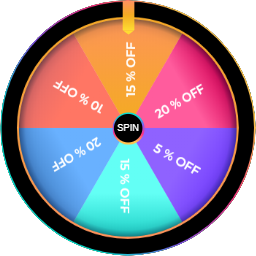
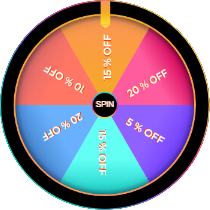
font shadow

diff --git a/dist/bundle.js b/dist/bundle.js
@@ -170,7 +170,7 @@ eval("__webpack_require__.r(__webpack_exports__);\n/* harmony export */ __webpac
 /***/ ((module, __webpack_exports__, __webpack_require__) => {
 
 "use strict";
-eval("__webpack_require__.r(__webpack_exports__);\n/* harmony export */ __webpack_require__.d(__webpack_exports__, {\n/* harmony export */   \"default\": () => (__WEBPACK_DEFAULT_EXPORT__)\n/* harmony export */ });\n/* harmony import */ var _node_modules_css_loader_dist_runtime_noSourceMaps_js__WEBPACK_IMPORTED_MODULE_0__ = __webpack_require__(/*! ../../../node_modules/css-loader/dist/runtime/noSourceMaps.js */ \"./node_modules/css-loader/dist/runtime/noSourceMaps.js\");\n/* harmony import */ var _node_modules_css_loader_dist_runtime_noSourceMaps_js__WEBPACK_IMPORTED_MODULE_0___default = /*#__PURE__*/__webpack_require__.n(_node_modules_css_loader_dist_runtime_noSourceMaps_js__WEBPACK_IMPORTED_MODULE_0__);\n/* harmony import */ var _node_modules_css_loader_dist_runtime_api_js__WEBPACK_IMPORTED_MODULE_1__ = __webpack_require__(/*! ../../../node_modules/css-loader/dist/runtime/api.js */ \"./node_modules/css-loader/dist/runtime/api.js\");\n/* harmony import */ var _node_modules_css_loader_dist_runtime_api_js__WEBPACK_IMPORTED_MODULE_1___default = /*#__PURE__*/__webpack_require__.n(_node_modules_css_loader_dist_runtime_api_js__WEBPACK_IMPORTED_MODULE_1__);\n// Imports\n\n\nvar ___CSS_LOADER_EXPORT___ = _node_modules_css_loader_dist_runtime_api_js__WEBPACK_IMPORTED_MODULE_1___default()((_node_modules_css_loader_dist_runtime_noSourceMaps_js__WEBPACK_IMPORTED_MODULE_0___default()));\n// Module\n___CSS_LOADER_EXPORT___.push([module.id, \"/* #wheelOfFortune {\\r\\n    display: inline-flex;\\r\\n    position: fixed;\\r\\n    overflow: initial;\\r\\n    z-index: 9999999999;\\r\\n} */\\r\\n.wheelOfFortune {\\r\\n    display: inline-flex;\\r\\n    position: fixed;\\r\\n    overflow: initial;\\r\\n    z-index: 9999999999;\\r\\n}\\r\\n\\r\\n.picture {\\r\\n    position: absolute;\\r\\n    width: 350px; \\r\\n    height: 350px;\\r\\n }\\r\\n\\r\\n.wheel {\\r\\n    display: block;\\r\\n}\\r\\n\\r\\n\\r\\n/* #spin {\\r\\n    font: 0.9rem/0 sans-serif;\\r\\n    cursor: pointer;\\r\\n    display: flex;\\r\\n    justify-content: center;\\r\\n    align-items: center;\\r\\n    width: 56px;\\r\\n    height: 56px;\\r\\n    background: black;\\r\\n    border-radius: 50%;\\r\\n    position: absolute;\\r\\n    top: 2px;\\r\\n    left: 2px;\\r\\n    z-index: 1;\\r\\n} */\\r\\n.spin {\\r\\n    font: 0.8rem/0 sans-serif;\\r\\n    cursor: pointer;\\r\\n    display: flex;\\r\\n    justify-content: center;\\r\\n    align-items: center;\\r\\n    width: 39px;\\r\\n    height: 39px;\\r\\n    background: black;\\r\\n    border-radius: 50%;\\r\\n    position: absolute;\\r\\n    top: 2px;\\r\\n    left: 2px;\\r\\n    z-index: 1;\\r\\n}\\r\\n\\r\\n.spin-border-wrap {\\r\\n    position: absolute;\\r\\n    top: 154px;\\r\\n    left: 154px;\\r\\n    width: 44px;\\r\\n    height: 44px;\\r\\n    background: linear-gradient(0deg, #FFC24F 8.58%, #FF3183 32.32%, #8559F3 60.82%, #657BEA 66.73%, #34B0DC 77.01%, #15D1D3 84.73%, #09DDD0 88.95%);\\r\\n    border-radius: 50%;\\r\\n    z-index: 1;\\r\\n}\\r\\n\\r\\n.topmark-box {\\r\\n    position: absolute;\\r\\n    left: 48%;\\r\\n    top: 1px;\\r\\n    width: 16px;\\r\\n    height: 40px;\\r\\n    background: linear-gradient(180deg, #FF9161 0%, #F4AB22 48.44%, #FEDC32 100%);\\r\\n    z-index: 1;\\r\\n\\r\\n}\\r\\n\\r\\n.topmark-arrow {\\r\\n    position: absolute;\\r\\n    left: 48%;\\r\\n    top: 41px;\\r\\n    width: 16px;\\r\\n    height: 20px;\\r\\n    background: linear-gradient(180deg, #FEDC32 0%, #FEDC32 48.44%, #FEDC32 100%);\\r\\n    z-index: 1;\\r\\n    clip-path: polygon(100% 0%, 50% 30%, 0% 0%);\\r\\n\\r\\n}\\r\\n\\r\\n.round-close-icon {\\r\\n    width: 40px;\\r\\n    height: 40px;\\r\\n    padding: 6px;\\r\\n    margin-left: 10px;\\r\\n}\\r\\n\\r\\n@media screen and (min-width:560px) {\\r\\n    .picture {\\r\\n        width: 450px; \\r\\n        height: 450px;\\r\\n     }\\r\\n    .spin-border-wrap {\\r\\n        top: 198px;\\r\\n        left: 198px;\\r\\n        width:58px;\\r\\n        height: 58px;\\r\\n    }\\r\\n    .spin {\\r\\n        font: 0.9rem/0 sans-serif;\\r\\n        width: 50px;\\r\\n        height: 50px;\\r\\n        top: 3px;\\r\\n        left: 3px;\\r\\n    }\\r\\n    .topmark-box {\\r\\n        width: 22px;\\r\\n        height: 47px;\\r\\n    }\\r\\n    .topmark-arrow {\\r\\n        top: 47px;\\r\\n        width: 22px;\\r\\n        height: 30px;\\r\\n        }\\r\\n\\r\\n\\r\\n  }\", \"\"]);\n// Exports\n/* harmony default export */ const __WEBPACK_DEFAULT_EXPORT__ = (___CSS_LOADER_EXPORT___);\n\n\n//# sourceURL=webpack:///./src/widgets/wheelOfFortuneWidget/styles.css?./node_modules/css-loader/dist/cjs.js");
+eval("__webpack_require__.r(__webpack_exports__);\n/* harmony export */ __webpack_require__.d(__webpack_exports__, {\n/* harmony export */   \"default\": () => (__WEBPACK_DEFAULT_EXPORT__)\n/* harmony export */ });\n/* harmony import */ var _node_modules_css_loader_dist_runtime_noSourceMaps_js__WEBPACK_IMPORTED_MODULE_0__ = __webpack_require__(/*! ../../../node_modules/css-loader/dist/runtime/noSourceMaps.js */ \"./node_modules/css-loader/dist/runtime/noSourceMaps.js\");\n/* harmony import */ var _node_modules_css_loader_dist_runtime_noSourceMaps_js__WEBPACK_IMPORTED_MODULE_0___default = /*#__PURE__*/__webpack_require__.n(_node_modules_css_loader_dist_runtime_noSourceMaps_js__WEBPACK_IMPORTED_MODULE_0__);\n/* harmony import */ var _node_modules_css_loader_dist_runtime_api_js__WEBPACK_IMPORTED_MODULE_1__ = __webpack_require__(/*! ../../../node_modules/css-loader/dist/runtime/api.js */ \"./node_modules/css-loader/dist/runtime/api.js\");\n/* harmony import */ var _node_modules_css_loader_dist_runtime_api_js__WEBPACK_IMPORTED_MODULE_1___default = /*#__PURE__*/__webpack_require__.n(_node_modules_css_loader_dist_runtime_api_js__WEBPACK_IMPORTED_MODULE_1__);\n// Imports\n\n\nvar ___CSS_LOADER_EXPORT___ = _node_modules_css_loader_dist_runtime_api_js__WEBPACK_IMPORTED_MODULE_1___default()((_node_modules_css_loader_dist_runtime_noSourceMaps_js__WEBPACK_IMPORTED_MODULE_0___default()));\n// Module\n___CSS_LOADER_EXPORT___.push([module.id, \"/* #wheelOfFortune {\\r\\n    display: inline-flex;\\r\\n    position: fixed;\\r\\n    overflow: initial;\\r\\n    z-index: 9999999999;\\r\\n} */\\r\\n.wheelOfFortune {\\r\\n    display: inline-flex;\\r\\n    position: fixed;\\r\\n    overflow: initial;\\r\\n    z-index: 9999999999;\\r\\n}\\r\\n\\r\\n.picture {\\r\\n    position: absolute;\\r\\n    width: 350px; \\r\\n    height: 350px;\\r\\n }\\r\\n\\r\\n.wheel {\\r\\n    display: block;\\r\\n}\\r\\n\\r\\n\\r\\n/* #spin {\\r\\n    font: 0.9rem/0 sans-serif;\\r\\n    cursor: pointer;\\r\\n    display: flex;\\r\\n    justify-content: center;\\r\\n    align-items: center;\\r\\n    width: 56px;\\r\\n    height: 56px;\\r\\n    background: black;\\r\\n    border-radius: 50%;\\r\\n    position: absolute;\\r\\n    top: 2px;\\r\\n    left: 2px;\\r\\n    z-index: 1;\\r\\n} */\\r\\n.spin {\\r\\n    font: 0.8rem/0 sans-serif;\\r\\n    cursor: pointer;\\r\\n    display: flex;\\r\\n    justify-content: center;\\r\\n    align-items: center;\\r\\n    width: 40px;\\r\\n    height: 40px;\\r\\n    background: black;\\r\\n    border-radius: 50%;\\r\\n    position: absolute;\\r\\n    top: 2px;\\r\\n    left: 2px;\\r\\n    z-index: 1;\\r\\n    text-shadow: -2px 0px 0px #FE4100;\\r\\n}\\r\\n\\r\\n.spin-border-wrap {\\r\\n    position: absolute;\\r\\n    top: 153px;\\r\\n    left: 153px;\\r\\n    width: 44px;\\r\\n    height: 44px;\\r\\n    background: linear-gradient(0deg, #FFC24F 8.58%, #FF3183 32.32%, #8559F3 60.82%, #657BEA 66.73%, #34B0DC 77.01%, #15D1D3 84.73%, #09DDD0 88.95%);\\r\\n    border-radius: 50%;\\r\\n    z-index: 1;\\r\\n}\\r\\n\\r\\n.topmark-box {\\r\\n    position: absolute;\\r\\n    left: 48%;\\r\\n    top: 1px;\\r\\n    width: 16px;\\r\\n    height: 40px;\\r\\n    background: linear-gradient(180deg, #FF9161 0%, #F4AB22 48.44%, #FEDC32 100%);\\r\\n    z-index: 1;\\r\\n\\r\\n}\\r\\n\\r\\n.topmark-arrow {\\r\\n    position: absolute;\\r\\n    left: 48%;\\r\\n    top: 41px;\\r\\n    width: 16px;\\r\\n    height: 20px;\\r\\n    background: linear-gradient(180deg, #FEDC32 0%, #FEDC32 48.44%, #FEDC32 100%);\\r\\n    z-index: 1;\\r\\n    clip-path: polygon(100% 0%, 50% 30%, 0% 0%);\\r\\n\\r\\n}\\r\\n\\r\\n.round-close-icon {\\r\\n    width: 40px;\\r\\n    height: 40px;\\r\\n    padding: 6px;\\r\\n    margin-left: 10px;\\r\\n}\\r\\n\\r\\n@media screen and (min-width:560px) {\\r\\n    .picture {\\r\\n        width: 450px; \\r\\n        height: 450px;\\r\\n     }\\r\\n    .spin-border-wrap {\\r\\n        top: 198px;\\r\\n        left: 198px;\\r\\n        width:58px;\\r\\n        height: 58px;\\r\\n    }\\r\\n    .spin {\\r\\n        font: 0.9rem/0 sans-serif;\\r\\n        width: 50px;\\r\\n        height: 50px;\\r\\n        top: 3px;\\r\\n        left: 3px;\\r\\n    }\\r\\n    .topmark-box {\\r\\n        width: 22px;\\r\\n        height: 47px;\\r\\n    }\\r\\n    .topmark-arrow {\\r\\n        top: 47px;\\r\\n        width: 22px;\\r\\n        height: 30px;\\r\\n        }\\r\\n\\r\\n\\r\\n  }\", \"\"]);\n// Exports\n/* harmony default export */ const __WEBPACK_DEFAULT_EXPORT__ = (___CSS_LOADER_EXPORT___);\n\n\n//# sourceURL=webpack:///./src/widgets/wheelOfFortuneWidget/styles.css?./node_modules/css-loader/dist/cjs.js");
 
 /***/ }),
 
@@ -1070,7 +1070,7 @@ eval("__webpack_require__.r(__webpack_exports__);\n/* harmony export */ __webpac
 /***/ ((__unused_webpack_module, __webpack_exports__, __webpack_require__) => {
 
 "use strict";
-eval("__webpack_require__.r(__webpack_exports__);\n/* harmony export */ __webpack_require__.d(__webpack_exports__, {\n/* harmony export */   \"default\": () => (__WEBPACK_DEFAULT_EXPORT__)\n/* harmony export */ });\n/* harmony import */ var _services__WEBPACK_IMPORTED_MODULE_0__ = __webpack_require__(/*! @/services */ \"./src/services/index.js\");\n/* harmony import */ var _utlis__WEBPACK_IMPORTED_MODULE_1__ = __webpack_require__(/*! @/utlis */ \"./src/utlis/index.js\");\n/* harmony import */ var _constants__WEBPACK_IMPORTED_MODULE_2__ = __webpack_require__(/*! ./constants */ \"./src/widgets/wheelOfFortuneWidget/constants.js\");\n/* harmony import */ var _styles_css__WEBPACK_IMPORTED_MODULE_3__ = __webpack_require__(/*! ./styles.css */ \"./src/widgets/wheelOfFortuneWidget/styles.css\");\n\r\n\r\n\r\n\r\n\r\n\r\n\r\n\r\n\r\n\r\n\r\n\r\nclass WheelOfFortuneWidget {\r\n  constructor() {\r\n    this.config = _services__WEBPACK_IMPORTED_MODULE_0__.localStorageService.getDefaultConfig();\r\n    if (!this.config.success && !localStorage.getItem('testing_Widgets')) return;\r\n    this.x = window.matchMedia(\"(min-width: 560px)\").matches ? 300 : window.matchMedia(\"(min-width: 390px)\").matches ? 1 : -20\r\n    this.y = 200\r\n    this.size = window.matchMedia(\"(min-width: 560px)\").matches ? 450 : 350\r\n    this.createWheel();\r\n    this.elSpin = document.querySelector('#spin');\r\n    this.ctx = document.getElementById('wheel').getContext`2d`;\r\n    // this.config.list = this?.config?.list ?? defaultList;\r\n    this.setValues()\r\n    this.tot = this.config?.list?.length ?? 0;\r\n    this.dia = this.ctx.canvas.width;\r\n    this.rad = this.dia / 2;\r\n    this.PI = Math.PI;\r\n    this.TAU = 2 * this.PI;\r\n    this.arc = this.TAU / (this.config?.list?.length ?? 0);\r\n    this.friction = 0.991;\r\n    this.angVelMin = 0.002;\r\n    this.angVelMax = 0;\r\n    this.angVel = 0;\r\n    this.ang = 0;\r\n    this.isSpinning = false;\r\n    this.isAccelerating = false;\r\n    this.drawBackground();\r\n    this.elSpin.addEventListener('click', () => {\r\n      _services__WEBPACK_IMPORTED_MODULE_0__.boomioService.signal('SPIN');\r\n      if (this.isSpinning) return;\r\n      this.isSpinning = true;\r\n      this.isAccelerating = true;\r\n      // this.angVelMax = getRandomArbitrary(0.1, 0.2);\r\n      this.angVelMax = 0.15;\r\n    });\r\n\r\n    this.config?.list?.forEach(this.drawSector);\r\n    this.config?.list?.forEach(this.addText);\r\n    this.wheelOfFortune = document.getElementById('wheelOfFortune');\r\n    this.addCloseIconToElement(this.wheelOfFortune);\r\n    new _services__WEBPACK_IMPORTED_MODULE_0__.DragElement(this.wheelOfFortune);\r\n    this.rotate(); // Initial rotation\r\n    this.engine(); // Start engine!\r\n    this.startAnimation();\r\n  }\r\n  engine = () => {\r\n    this.frame();\r\n    requestAnimationFrame(this.engine);\r\n  };\r\n  /**\r\n   * Sets value to a winning segment of wheel. Uses \"p_top_text\" field from handle for that.  Sets other values randomised around or from constants.js\r\n   */\r\n  setValues = () => {\r\n    // this.config.p_top_text = '370€'\r\n    this.config.list = _constants__WEBPACK_IMPORTED_MODULE_2__.defaultList;\r\n    const winningValue = this.config.p_top_text?.replace(/\\D/g, \"\")\r\n    if (this.config.p_top_text?.includes('$') || this.config.p_top_text?.includes('€')) {\r\n      this.config.list.forEach((e) => {\r\n        const rounding = winningValue.length > 1 ? winningValue.length - 1 : 1\r\n        const value = winningValue * 1 + Math.round(winningValue * (0,_utlis__WEBPACK_IMPORTED_MODULE_1__.getRandomArbitrary)(-1, 1) / Math.pow(10, rounding - 1)) * Math.pow(10, rounding - 1);\r\n        e.label = `${value}${this.config.p_top_text.includes('$') ? ' $' : ' €'}`\r\n      })\r\n      this.config.list[5].label = `${winningValue} ${this.config.p_top_text.includes('$') ? ' $' : ' €'}`\r\n    }\r\n    if (this.config.p_top_text?.includes('%')) {\r\n      this.config.list[5].label = `${winningValue} % OFF`\r\n    }\r\n    if (this.config.p_top_text?.toLowerCase().includes('free shipping')) {\r\n      this.config.list[5].label = 'Free Shippping'\r\n    }\r\n  }\r\n\r\n  frame = () => {\r\n    if (!this.isSpinning) return;\r\n    if (this.angVel >= this.angVelMax) this.isAccelerating = false;\r\n\r\n    // Accelerate\r\n    if (this.isAccelerating) {\r\n      this.angVel ||= this.angVelMin; // Initial velocity kick\r\n      this.angVel *= 1.06; // Accelerate\r\n    }\r\n\r\n    // Decelerate\r\n    else {\r\n      this.isAccelerating = false;\r\n      this.angVel *= this.friction; // Decelerate by friction\r\n\r\n      // SPIN END:\r\n      if (this.angVel < this.angVelMin) {\r\n        this.isSpinning = false;\r\n        this.angVel = 0;\r\n        new _services__WEBPACK_IMPORTED_MODULE_0__.QrCodeModal();\r\n        setTimeout(() => {\r\n          this.wheelOfFortune.remove();\r\n        }, 5000);\r\n      }\r\n    }\r\n    this.ang += this.angVel; // Update angle\r\n    this.ang %= this.TAU; // Normalize angle\r\n    this.rotate(); // CSS rotate!\r\n  };\r\n\r\n  getIndex = () => Math.floor(this.tot - (this.ang / this.TAU) * this.tot) % this.tot;\r\n\r\n  rotate = () => {\r\n    const sector = this.config?.list?.[this.getIndex()];\r\n    this.ctx.canvas.style.transform = `rotate(${this.ang - this.PI / 2}rad)`;\r\n    this.elSpin.innerHTML = !this.angVel\r\n      ? 'SPIN'\r\n      : `      \r\n            <img style=\"width: 40px; height: 40px\" src=\"https://github.com/boomio-api-v2/final-combined-wdigets-1/blob/wheelof-fortune/images/wheelOfFortuneWidget/fav-boomiyo.png?raw=true\"></img>\r\n        `;\r\n    // this.elSpin.style.background = sector.color;\r\n\r\n    this.elSpin.style.color = 'white'\r\n  };\r\n\r\n  drawBackground = () => {\r\n    // return\r\n    this.ctx.beginPath() // outer circle \r\n    let angle = _constants__WEBPACK_IMPORTED_MODULE_2__.outerBorderAngle + 3 * this.PI / 2\r\n    let gx = this.rad * Math.cos(angle);\r\n    let gy = this.rad * Math.sin(angle);\r\n    let cx = this.rad\r\n    let cy = this.rad\r\n    let grd = this.ctx.createLinearGradient(cx - gx, cy - gy, cx + gx, cy + gy);\r\n    _constants__WEBPACK_IMPORTED_MODULE_2__.outerBorderGradient.forEach((st) => grd.addColorStop(st.pct, st.clr))\r\n    this.ctx.fillStyle = grd\r\n    this.ctx.arc(this.rad, this.rad, this.rad, 0, 2 * this.PI)\r\n    this.ctx.moveTo(this.rad, this.rad)\r\n    this.ctx.lineTo(this.rad, this.rad)\r\n    this.ctx.fill()\r\n\r\n    this.ctx.beginPath() // black circle\r\n    this.ctx.fillStyle = 'black'\r\n    if (this.size === 350) {\r\n      this.ctx.arc(this.rad, this.rad, this.rad - 2, 0, 2 * this.PI)\r\n    } else {\r\n      this.ctx.arc(this.rad, this.rad, this.rad - 3, 0, 2 * this.PI)\r\n    }\r\n    this.ctx.moveTo(this.rad, this.rad)\r\n    this.ctx.lineTo(this.rad, this.rad)\r\n    this.ctx.fill()\r\n\r\n    this.ctx.beginPath() // inner circle \r\n    angle = 0\r\n    gx = this.rad * Math.cos(angle);\r\n    gy = this.rad * Math.sin(angle);\r\n    cx = this.rad\r\n    cy = this.rad\r\n    grd = this.ctx.createLinearGradient(cx - gx, cy - gy, cx + gx, cy + gy);\r\n    _constants__WEBPACK_IMPORTED_MODULE_2__.innerBorderGradient.forEach((st) => grd.addColorStop(st.pct, st.clr))\r\n    this.ctx.fillStyle = grd\r\n    // this.ctx.arc(this.rad, this.rad, this.rad - 18, 0, 2 * this.PI)\r\n    if (this.size === 350) {\r\n      this.ctx.arc(this.rad, this.rad, this.rad - 23, 0, 2 * this.PI)\r\n    } else {\r\n      this.ctx.arc(this.rad, this.rad, this.rad - 32, 0, 2 * this.PI)\r\n    }\r\n    this.ctx.moveTo(this.rad, this.rad)\r\n    this.ctx.lineTo(this.rad, this.rad)\r\n    this.ctx.fill()\r\n\r\n    this.ctx.beginPath() // white circle\r\n    this.ctx.fillStyle = 'white'\r\n    // this.ctx.arc(this.rad, this.rad, this.rad - 20, 0, 2 * this.PI)\r\n    if (this.size === 350) {\r\n      this.ctx.arc(this.rad, this.rad, this.rad - 26, 0, 2 * this.PI)\r\n    } else {\r\n      this.ctx.arc(this.rad, this.rad, this.rad - 36, 0, 2 * this.PI)\r\n    }\r\n    this.ctx.moveTo(this.rad, this.rad)\r\n    this.ctx.lineTo(this.rad, this.rad)\r\n    this.ctx.fill()\r\n  }\r\n\r\n  drawSector = (sector, i) => {\r\n    let outerCircle\r\n    if (this.size === 350) { outerCircle = 26 } else { outerCircle = 36 }\r\n    const ang = this.arc * i - this.arc / 2;\r\n    this.ctx.save();\r\n    this.ctx.globalCompositeOperation = 'multiply'\r\n    this.ctx.beginPath();\r\n    let grdShadow\r\n    grdShadow = this.ctx.createRadialGradient(this.rad, this.rad, 0, this.rad, this.rad, this.rad - outerCircle);\r\n    _constants__WEBPACK_IMPORTED_MODULE_2__.shadowGradient.forEach((st) => grdShadow.addColorStop(st.pct, st.clr));\r\n    this.ctx.fillStyle = grdShadow;\r\n    this.ctx.moveTo(this.rad, this.rad);\r\n    this.ctx.arc(this.rad, this.rad, this.rad - outerCircle, ang, ang + this.arc);\r\n    this.ctx.closePath();\r\n    this.ctx.fill();\r\n    this.ctx.beginPath();\r\n    const gx = this.rad * Math.cos(ang + this.PI + this.arc / 2);\r\n    const gy = this.rad * Math.sin(ang + this.PI + this.arc / 2);\r\n    const grd = this.ctx.createLinearGradient(this.rad - gx, this.rad - gy, this.rad, this.rad);\r\n    sector.color.forEach((st) => grd.addColorStop(st.pct, st.clr))\r\n    this.ctx.fillStyle = grd;\r\n    this.ctx.moveTo(this.rad, this.rad);\r\n    // this.ctx.arc(this.rad, this.rad, this.rad - 20, ang, ang + this.arc);\r\n    this.ctx.arc(this.rad, this.rad, this.rad - outerCircle, ang, ang + this.arc);\r\n    this.ctx.lineTo(this.rad, this.rad);\r\n    this.ctx.closePath();\r\n    this.ctx.fill();\r\n    this.ctx.restore();\r\n  };\r\n  addText = (sector, i) => {\r\n    const ang = this.arc * i - this.arc / 2;\r\n    this.ctx.save();\r\n    this.ctx.translate(this.rad, this.rad);\r\n    this.ctx.rotate(ang + this.arc / 2);\r\n    this.ctx.textAlign = 'center';\r\n    this.ctx.fillStyle = '#fff';\r\n    // this.ctx.font = 'bold 16px Montserrat';\r\n    if (this.size === 350) {\r\n      this.ctx.font = 'bold 17px Montserrat';\r\n      // this.ctx.fillText(sector.label, this.rad - 80, 10, 55);\r\n      this.ctx.fillText(sector.label, this.rad - 95, 10, 75);\r\n    } else {\r\n      this.ctx.font = 'bold 20px Montserrat';\r\n      this.ctx.fillText(sector.label, this.rad - 120, 10, 85);\r\n    }\r\n    this.ctx.restore();\r\n  }\r\n\r\n\r\n\r\n  createWheel = () => {\r\n    let pict\r\n    this.size === 350 ? pict = _constants__WEBPACK_IMPORTED_MODULE_2__.pictS : pict = _constants__WEBPACK_IMPORTED_MODULE_2__.pictL\r\n    const x = this.x\r\n    const y = this.y+document.documentElement.scrollTop\r\n    const wheel = document.createElement('div');\r\n    wheel.setAttribute('id', 'wheelOfFortune');\r\n    wheel.classList.add('boomio--animation__wrapper', 'boomio--animation__wrapper--initial');\r\n    wheel.classList.add('wheelOfFortune');\r\n    wheel.style.display = 'flex';\r\n    wheel.style.position = 'absolute'\r\n    wheel.style.left = `${x}px`\r\n    wheel.style.top = `${y}px`\r\n    wheel.innerHTML = `<div>\r\n    <canvas id=\"wheel\" class=\"wheel\" width=\"${this.size}\" height=\"${this.size}\">\r\n    </canvas><div class=\"spin-border-wrap\">\r\n    <div id=\"spin\" class=\"spin\"></div></div>\r\n    <div class=\"topmark-box\"></div>\r\n    <div class=\"topmark-arrow\"></div>\r\n    </div>\r\n    `;\r\n    _services__WEBPACK_IMPORTED_MODULE_0__.widgetHtmlService.container.appendChild(wheel);\r\n    wheel.style.display = 'none'\r\n    const delay = 100\r\n    let transition = 0\r\n    _constants__WEBPACK_IMPORTED_MODULE_2__.wrecks.forEach((w) => {\r\n      const current = w.transition.replace(/[^0-9 .]/g, \"\")\r\n      if (current > transition) transition = current\r\n    })\r\n    _constants__WEBPACK_IMPORTED_MODULE_2__.wrecks.forEach((w, i) => {\r\n      window['pict' + i] = document.createElement('img');\r\n      window['pict' + i].classList.add('picture');\r\n      window['pict' + i].src = pict;\r\n      window['pict' + i].style.left = `${x + w.dx}px`;\r\n      window['pict' + i].style.top = `${y + w.dy}px`;\r\n      window['pict' + i].style.clipPath = w.path;\r\n      const angle = Math.ceil(Math.random() * 359)\r\n      window['pict' + i].style.transform = `rotate(${angle}deg)`\r\n      setTimeout(() => {\r\n        window['pict' + i].style.transform = `translate(${-w.dx}px,${-w.dy}px) rotate(0deg)`;\r\n        window['pict' + i].style.transition = w.transition\r\n      }, delay)\r\n    _services__WEBPACK_IMPORTED_MODULE_0__.widgetHtmlService.container.appendChild(window['pict' + i])\r\n    })\r\n    setTimeout(() => {\r\n      wheel.style.display = 'flex';\r\n      document.querySelectorAll('.picture').forEach((pic) => pic.remove())\r\n    }, delay + transition * 1000)\r\n  };\r\n\r\n  startAnimation = () => {\r\n    const x = this.x\r\n    const y = this.y+document.documentElement.scrollTop\r\n    // true stands for no animation \r\n    new _services__WEBPACK_IMPORTED_MODULE_0__.AnimationService({\r\n      elem: this.wheelOfFortune,\r\n      size: this.size,\r\n      posx: x,\r\n      posy: y,\r\n    }, true);\r\n  };\r\n\r\n  addCloseIconToElement = (element) => {\r\n    const btnContainer = document.createElement('div')\r\n    btnContainer.style.display = 'flex';\r\n    btnContainer.style.flexDirection = 'column'\r\n    btnContainer.style.justifyContent = 'center'\r\n    const dragBtn = document.createElement('div')\r\n    dragBtn.classList.add('round-close-icon');\r\n    dragBtn.innerHTML = '<img src=\"https://raw.githubusercontent.com/boomio-api-v2/final-combined-wdigets-1/131cda78a7d6d48ddfcd6475ccd5a61a66c2f2af/images/wheelOfFortuneWidget/icon-drag.svg\"></img>';\r\n    const closeBtn = document.createElement('div');\r\n    closeBtn.classList.add('round-close-icon');\r\n    // closeBtn.innerHTML = '&#x2715; ';\r\n    closeBtn.innerHTML = '<img src=\"https://raw.githubusercontent.com/boomio-api-v2/final-combined-wdigets-1/131cda78a7d6d48ddfcd6475ccd5a61a66c2f2af/images/wheelOfFortuneWidget/round-close.svg\"></img>';\r\n    closeBtn.addEventListener(\r\n      'click',\r\n      (e) => {\r\n        e.stopPropagation();\r\n        e.preventDefault();\r\n        element.remove();\r\n      },\r\n      { once: true },\r\n    );\r\n    btnContainer.appendChild(closeBtn);\r\n    btnContainer.appendChild(dragBtn);\r\n    element.appendChild(btnContainer);\r\n  };\r\n}\r\n\r\n/* harmony default export */ const __WEBPACK_DEFAULT_EXPORT__ = (() => {\r\n  new WheelOfFortuneWidget();\r\n});\n\n//# sourceURL=webpack:///./src/widgets/wheelOfFortuneWidget/wheelOfFortuneWidget.js?");
+eval("__webpack_require__.r(__webpack_exports__);\n/* harmony export */ __webpack_require__.d(__webpack_exports__, {\n/* harmony export */   \"default\": () => (__WEBPACK_DEFAULT_EXPORT__)\n/* harmony export */ });\n/* harmony import */ var _services__WEBPACK_IMPORTED_MODULE_0__ = __webpack_require__(/*! @/services */ \"./src/services/index.js\");\n/* harmony import */ var _utlis__WEBPACK_IMPORTED_MODULE_1__ = __webpack_require__(/*! @/utlis */ \"./src/utlis/index.js\");\n/* harmony import */ var _constants__WEBPACK_IMPORTED_MODULE_2__ = __webpack_require__(/*! ./constants */ \"./src/widgets/wheelOfFortuneWidget/constants.js\");\n/* harmony import */ var _styles_css__WEBPACK_IMPORTED_MODULE_3__ = __webpack_require__(/*! ./styles.css */ \"./src/widgets/wheelOfFortuneWidget/styles.css\");\n\r\n\r\n\r\n\r\n\r\n\r\n\r\n\r\n\r\n\r\n\r\n\r\nclass WheelOfFortuneWidget {\r\n  constructor() {\r\n    this.config = _services__WEBPACK_IMPORTED_MODULE_0__.localStorageService.getDefaultConfig();\r\n    if (!this.config.success && !localStorage.getItem('testing_Widgets')) return;\r\n    this.x = window.matchMedia(\"(min-width: 560px)\").matches ? 300 : window.matchMedia(\"(min-width: 390px)\").matches ? 1 : -20\r\n    this.y = 200\r\n    this.size = window.matchMedia(\"(min-width: 560px)\").matches ? 450 : 350\r\n    this.createWheel();\r\n    this.elSpin = document.querySelector('#spin');\r\n    this.ctx = document.getElementById('wheel').getContext`2d`;\r\n    // this.config.list = this?.config?.list ?? defaultList;\r\n    this.setValues()\r\n    this.tot = this.config?.list?.length ?? 0;\r\n    this.dia = this.ctx.canvas.width;\r\n    this.rad = this.dia / 2;\r\n    this.PI = Math.PI;\r\n    this.TAU = 2 * this.PI;\r\n    this.arc = this.TAU / (this.config?.list?.length ?? 0);\r\n    this.friction = 0.991;\r\n    this.angVelMin = 0.002;\r\n    this.angVelMax = 0;\r\n    this.angVel = 0;\r\n    this.ang = 0;\r\n    this.isSpinning = false;\r\n    this.isAccelerating = false;\r\n    this.drawBackground();\r\n    this.elSpin.addEventListener('click', () => {\r\n      _services__WEBPACK_IMPORTED_MODULE_0__.boomioService.signal('SPIN');\r\n      if (this.isSpinning) return;\r\n      this.isSpinning = true;\r\n      this.isAccelerating = true;\r\n      // this.angVelMax = getRandomArbitrary(0.1, 0.2);\r\n      this.angVelMax = 0.15;\r\n    });\r\n\r\n    this.config?.list?.forEach(this.drawSector);\r\n    this.config?.list?.forEach(this.addText);\r\n    this.wheelOfFortune = document.getElementById('wheelOfFortune');\r\n    this.addCloseIconToElement(this.wheelOfFortune);\r\n    new _services__WEBPACK_IMPORTED_MODULE_0__.DragElement(this.wheelOfFortune);\r\n    this.rotate(); // Initial rotation\r\n    this.engine(); // Start engine!\r\n    this.startAnimation();\r\n  }\r\n  engine = () => {\r\n    this.frame();\r\n    requestAnimationFrame(this.engine);\r\n  };\r\n  /**\r\n   * Sets value to a winning segment of wheel. Uses \"p_top_text\" field from handle for that.  Sets other values randomised around or from constants.js\r\n   */\r\n  setValues = () => {\r\n    // this.config.p_top_text = '370€'\r\n    this.config.list = _constants__WEBPACK_IMPORTED_MODULE_2__.defaultList;\r\n    const winningValue = this.config.p_top_text?.replace(/\\D/g, \"\")\r\n    if (this.config.p_top_text?.includes('$') || this.config.p_top_text?.includes('€')) {\r\n      this.config.list.forEach((e) => {\r\n        const rounding = winningValue.length > 1 ? winningValue.length - 1 : 1\r\n        const value = winningValue * 1 + Math.round(winningValue * (0,_utlis__WEBPACK_IMPORTED_MODULE_1__.getRandomArbitrary)(-1, 1) / Math.pow(10, rounding - 1)) * Math.pow(10, rounding - 1);\r\n        e.label = `${value}${this.config.p_top_text.includes('$') ? ' $' : ' €'}`\r\n      })\r\n      this.config.list[5].label = `${winningValue} ${this.config.p_top_text.includes('$') ? ' $' : ' €'}`\r\n    }\r\n    if (this.config.p_top_text?.includes('%')) {\r\n      this.config.list[5].label = `${winningValue} % OFF`\r\n    }\r\n    if (this.config.p_top_text?.toLowerCase().includes('free shipping')) {\r\n      this.config.list[5].label = 'Free Shippping'\r\n    }\r\n  }\r\n\r\n  frame = () => {\r\n    if (!this.isSpinning) return;\r\n    if (this.angVel >= this.angVelMax) this.isAccelerating = false;\r\n\r\n    // Accelerate\r\n    if (this.isAccelerating) {\r\n      this.angVel ||= this.angVelMin; // Initial velocity kick\r\n      this.angVel *= 1.06; // Accelerate\r\n    }\r\n\r\n    // Decelerate\r\n    else {\r\n      this.isAccelerating = false;\r\n      this.angVel *= this.friction; // Decelerate by friction\r\n\r\n      // SPIN END:\r\n      if (this.angVel < this.angVelMin) {\r\n        this.isSpinning = false;\r\n        this.angVel = 0;\r\n        new _services__WEBPACK_IMPORTED_MODULE_0__.QrCodeModal();\r\n        setTimeout(() => {\r\n          this.wheelOfFortune.remove();\r\n        }, 5000);\r\n      }\r\n    }\r\n    this.ang += this.angVel; // Update angle\r\n    this.ang %= this.TAU; // Normalize angle\r\n    this.rotate(); // CSS rotate!\r\n  };\r\n\r\n  getIndex = () => Math.floor(this.tot - (this.ang / this.TAU) * this.tot) % this.tot;\r\n\r\n  rotate = () => {\r\n    const sector = this.config?.list?.[this.getIndex()];\r\n    this.ctx.canvas.style.transform = `rotate(${this.ang - this.PI / 2}rad)`;\r\n    this.elSpin.innerHTML = !this.angVel\r\n      ? 'SPIN'\r\n      : `      \r\n            <img style=\"width: 40px; height: 40px\" src=\"https://github.com/boomio-api-v2/final-combined-wdigets-1/blob/wheelof-fortune/images/wheelOfFortuneWidget/fav-boomiyo.png?raw=true\"></img>\r\n        `;\r\n    // this.elSpin.style.background = sector.color;\r\n\r\n    this.elSpin.style.color = 'white'\r\n  };\r\n\r\n  drawBackground = () => {\r\n    // return\r\n    this.ctx.beginPath() // outer circle \r\n    let angle = _constants__WEBPACK_IMPORTED_MODULE_2__.outerBorderAngle + 3 * this.PI / 2\r\n    let gx = this.rad * Math.cos(angle);\r\n    let gy = this.rad * Math.sin(angle);\r\n    let cx = this.rad\r\n    let cy = this.rad\r\n    let grd = this.ctx.createLinearGradient(cx - gx, cy - gy, cx + gx, cy + gy);\r\n    _constants__WEBPACK_IMPORTED_MODULE_2__.outerBorderGradient.forEach((st) => grd.addColorStop(st.pct, st.clr))\r\n    this.ctx.fillStyle = grd\r\n    this.ctx.arc(this.rad, this.rad, this.rad, 0, 2 * this.PI)\r\n    this.ctx.moveTo(this.rad, this.rad)\r\n    this.ctx.lineTo(this.rad, this.rad)\r\n    this.ctx.fill()\r\n\r\n    this.ctx.beginPath() // black circle\r\n    this.ctx.fillStyle = 'black'\r\n    if (this.size === 350) {\r\n      this.ctx.arc(this.rad, this.rad, this.rad - 2, 0, 2 * this.PI)\r\n    } else {\r\n      this.ctx.arc(this.rad, this.rad, this.rad - 3, 0, 2 * this.PI)\r\n    }\r\n    this.ctx.moveTo(this.rad, this.rad)\r\n    this.ctx.lineTo(this.rad, this.rad)\r\n    this.ctx.fill()\r\n\r\n    this.ctx.beginPath() // inner circle \r\n    angle = 0\r\n    gx = this.rad * Math.cos(angle);\r\n    gy = this.rad * Math.sin(angle);\r\n    cx = this.rad\r\n    cy = this.rad\r\n    grd = this.ctx.createLinearGradient(cx - gx, cy - gy, cx + gx, cy + gy);\r\n    _constants__WEBPACK_IMPORTED_MODULE_2__.innerBorderGradient.forEach((st) => grd.addColorStop(st.pct, st.clr))\r\n    this.ctx.fillStyle = grd\r\n    // this.ctx.arc(this.rad, this.rad, this.rad - 18, 0, 2 * this.PI)\r\n    if (this.size === 350) {\r\n      this.ctx.arc(this.rad, this.rad, this.rad - 23, 0, 2 * this.PI)\r\n    } else {\r\n      this.ctx.arc(this.rad, this.rad, this.rad - 32, 0, 2 * this.PI)\r\n    }\r\n    this.ctx.moveTo(this.rad, this.rad)\r\n    this.ctx.lineTo(this.rad, this.rad)\r\n    this.ctx.fill()\r\n\r\n    this.ctx.beginPath() // white circle\r\n    this.ctx.fillStyle = 'white'\r\n    // this.ctx.arc(this.rad, this.rad, this.rad - 20, 0, 2 * this.PI)\r\n    if (this.size === 350) {\r\n      this.ctx.arc(this.rad, this.rad, this.rad - 26, 0, 2 * this.PI)\r\n    } else {\r\n      this.ctx.arc(this.rad, this.rad, this.rad - 36, 0, 2 * this.PI)\r\n    }\r\n    this.ctx.moveTo(this.rad, this.rad)\r\n    this.ctx.lineTo(this.rad, this.rad)\r\n    this.ctx.fill()\r\n  }\r\n\r\n  drawSector = (sector, i) => {\r\n    let outerCircle\r\n    if (this.size === 350) { outerCircle = 26 } else { outerCircle = 36 }\r\n    const ang = this.arc * i - this.arc / 2;\r\n    this.ctx.save();\r\n    this.ctx.globalCompositeOperation = 'multiply'\r\n    this.ctx.beginPath();\r\n    let grdShadow\r\n    grdShadow = this.ctx.createRadialGradient(this.rad, this.rad, 0, this.rad, this.rad, this.rad - outerCircle);\r\n    _constants__WEBPACK_IMPORTED_MODULE_2__.shadowGradient.forEach((st) => grdShadow.addColorStop(st.pct, st.clr));\r\n    this.ctx.fillStyle = grdShadow;\r\n    this.ctx.moveTo(this.rad, this.rad);\r\n    this.ctx.arc(this.rad, this.rad, this.rad - outerCircle, ang, ang + this.arc);\r\n    this.ctx.closePath();\r\n    this.ctx.fill();\r\n    this.ctx.beginPath();\r\n    const gx = this.rad * Math.cos(ang + this.PI + this.arc / 2);\r\n    const gy = this.rad * Math.sin(ang + this.PI + this.arc / 2);\r\n    const grd = this.ctx.createLinearGradient(this.rad - gx, this.rad - gy, this.rad, this.rad);\r\n    sector.color.forEach((st) => grd.addColorStop(st.pct, st.clr))\r\n    this.ctx.fillStyle = grd;\r\n    this.ctx.moveTo(this.rad, this.rad);\r\n    // this.ctx.arc(this.rad, this.rad, this.rad - 20, ang, ang + this.arc);\r\n    this.ctx.arc(this.rad, this.rad, this.rad - outerCircle, ang, ang + this.arc);\r\n    this.ctx.lineTo(this.rad, this.rad);\r\n    this.ctx.closePath();\r\n    this.ctx.fill();\r\n    this.ctx.restore();\r\n  };\r\n  addText = (sector, i) => {\r\n    const ang = this.arc * i - this.arc / 2;\r\n    this.ctx.save();\r\n    this.ctx.translate(this.rad, this.rad);\r\n    this.ctx.rotate(ang + this.arc / 2);\r\n    //shadow\r\n    this.ctx.textAlign = 'center';\r\n    this.ctx.fillStyle = '#FE4100';\r\n   \r\n    if (this.size === 350) {\r\n      this.ctx.font = 'bold 17px Montserrat';\r\n      this.ctx.fillText(sector.label, this.rad - 97, 10, 75);\r\n    } else {\r\n      this.ctx.font = 'bold 20px Montserrat';\r\n      this.ctx.fillText(sector.label, this.rad - 122, 10, 85);\r\n    }\r\n//text\r\n    this.ctx.textAlign = 'center';\r\n    this.ctx.fillStyle = '#fff';\r\n   \r\n    if (this.size === 350) {\r\n      this.ctx.font = 'bold 17px Montserrat';\r\n      this.ctx.fillText(sector.label, this.rad - 95, 10, 75);\r\n    } else {\r\n      this.ctx.font = 'bold 20px Montserrat';\r\n      this.ctx.fillText(sector.label, this.rad - 120, 10, 85);\r\n    }\r\n    this.ctx.restore();\r\n  }\r\n\r\n\r\n\r\n  createWheel = () => {\r\n    let pict\r\n    this.size === 350 ? pict = _constants__WEBPACK_IMPORTED_MODULE_2__.pictS : pict = _constants__WEBPACK_IMPORTED_MODULE_2__.pictL\r\n    const x = this.x\r\n    const y = this.y+document.documentElement.scrollTop\r\n    const wheel = document.createElement('div');\r\n    wheel.setAttribute('id', 'wheelOfFortune');\r\n    wheel.classList.add('boomio--animation__wrapper', 'boomio--animation__wrapper--initial');\r\n    wheel.classList.add('wheelOfFortune');\r\n    wheel.style.display = 'flex';\r\n    wheel.style.position = 'absolute'\r\n    wheel.style.left = `${x}px`\r\n    wheel.style.top = `${y}px`\r\n    wheel.innerHTML = `<div>\r\n    <canvas id=\"wheel\" class=\"wheel\" width=\"${this.size}\" height=\"${this.size}\">\r\n    </canvas><div class=\"spin-border-wrap\">\r\n    <div id=\"spin\" class=\"spin\"></div></div>\r\n    <div class=\"topmark-box\"></div>\r\n    <div class=\"topmark-arrow\"></div>\r\n    </div>\r\n    `;\r\n    _services__WEBPACK_IMPORTED_MODULE_0__.widgetHtmlService.container.appendChild(wheel);\r\n    wheel.style.display = 'none'\r\n    const delay = 100\r\n    let transition = 0\r\n    _constants__WEBPACK_IMPORTED_MODULE_2__.wrecks.forEach((w) => {\r\n      const current = w.transition.replace(/[^0-9 .]/g, \"\")\r\n      if (current > transition) transition = current\r\n    })\r\n    _constants__WEBPACK_IMPORTED_MODULE_2__.wrecks.forEach((w, i) => {\r\n      window['pict' + i] = document.createElement('img');\r\n      window['pict' + i].classList.add('picture');\r\n      window['pict' + i].src = pict;\r\n      window['pict' + i].style.left = `${x + w.dx}px`;\r\n      window['pict' + i].style.top = `${y + w.dy}px`;\r\n      window['pict' + i].style.clipPath = w.path;\r\n      const angle = Math.ceil(Math.random() * 359)\r\n      window['pict' + i].style.transform = `rotate(${angle}deg)`\r\n      setTimeout(() => {\r\n        window['pict' + i].style.transform = `translate(${-w.dx}px,${-w.dy}px) rotate(0deg)`;\r\n        window['pict' + i].style.transition = w.transition\r\n      }, delay)\r\n    _services__WEBPACK_IMPORTED_MODULE_0__.widgetHtmlService.container.appendChild(window['pict' + i])\r\n    })\r\n    setTimeout(() => {\r\n      wheel.style.display = 'flex';\r\n      document.querySelectorAll('.picture').forEach((pic) => pic.remove())\r\n    }, delay + transition * 1000)\r\n  };\r\n\r\n  startAnimation = () => {\r\n    const x = this.x\r\n    const y = this.y+document.documentElement.scrollTop\r\n    // true stands for no animation \r\n    new _services__WEBPACK_IMPORTED_MODULE_0__.AnimationService({\r\n      elem: this.wheelOfFortune,\r\n      size: this.size,\r\n      posx: x,\r\n      posy: y,\r\n    }, true);\r\n  };\r\n\r\n  addCloseIconToElement = (element) => {\r\n    const btnContainer = document.createElement('div')\r\n    btnContainer.style.display = 'flex';\r\n    btnContainer.style.flexDirection = 'column'\r\n    btnContainer.style.justifyContent = 'center'\r\n    const dragBtn = document.createElement('div')\r\n    dragBtn.classList.add('round-close-icon');\r\n    dragBtn.innerHTML = '<img src=\"https://raw.githubusercontent.com/boomio-api-v2/final-combined-wdigets-1/131cda78a7d6d48ddfcd6475ccd5a61a66c2f2af/images/wheelOfFortuneWidget/icon-drag.svg\"></img>';\r\n    const closeBtn = document.createElement('div');\r\n    closeBtn.classList.add('round-close-icon');\r\n    // closeBtn.innerHTML = '&#x2715; ';\r\n    closeBtn.innerHTML = '<img src=\"https://raw.githubusercontent.com/boomio-api-v2/final-combined-wdigets-1/131cda78a7d6d48ddfcd6475ccd5a61a66c2f2af/images/wheelOfFortuneWidget/round-close.svg\"></img>';\r\n    closeBtn.addEventListener(\r\n      'click',\r\n      (e) => {\r\n        e.stopPropagation();\r\n        e.preventDefault();\r\n        element.remove();\r\n      },\r\n      { once: true },\r\n    );\r\n    btnContainer.appendChild(closeBtn);\r\n    btnContainer.appendChild(dragBtn);\r\n    element.appendChild(btnContainer);\r\n  };\r\n}\r\n\r\n/* harmony default export */ const __WEBPACK_DEFAULT_EXPORT__ = (() => {\r\n  new WheelOfFortuneWidget();\r\n});\n\n//# sourceURL=webpack:///./src/widgets/wheelOfFortuneWidget/wheelOfFortuneWidget.js?");
 
 /***/ }),
 

diff --git a/src/widgets/wheelOfFortuneWidget/wheelOfFortuneWidget.js b/src/widgets/wheelOfFortuneWidget/wheelOfFortuneWidget.js
@@ -226,12 +226,23 @@ class WheelOfFortuneWidget {
     this.ctx.save();
     this.ctx.translate(this.rad, this.rad);
     this.ctx.rotate(ang + this.arc / 2);
+    //shadow
     this.ctx.textAlign = 'center';
-    this.ctx.fillStyle = '#fff';
-    // this.ctx.font = 'bold 16px Montserrat';
+    this.ctx.fillStyle = '#FE4100';
+   
     if (this.size === 350) {
       this.ctx.font = 'bold 17px Montserrat';
-      // this.ctx.fillText(sector.label, this.rad - 80, 10, 55);
+      this.ctx.fillText(sector.label, this.rad - 97, 10, 75);
+    } else {
+      this.ctx.font = 'bold 20px Montserrat';
+      this.ctx.fillText(sector.label, this.rad - 122, 10, 85);
+    }
+//text
+    this.ctx.textAlign = 'center';
+    this.ctx.fillStyle = '#fff';
+   
+    if (this.size === 350) {
+      this.ctx.font = 'bold 17px Montserrat';
       this.ctx.fillText(sector.label, this.rad - 95, 10, 75);
     } else {
       this.ctx.font = 'bold 20px Montserrat';

diff --git a/src/widgets/wheelOfFortuneWidget/styles.css b/src/widgets/wheelOfFortuneWidget/styles.css
@@ -43,20 +43,21 @@
     display: flex;
     justify-content: center;
     align-items: center;
-    width: 39px;
-    height: 39px;
+    width: 40px;
+    height: 40px;
     background: black;
     border-radius: 50%;
     position: absolute;
     top: 2px;
     left: 2px;
     z-index: 1;
+    text-shadow: -2px 0px 0px #FE4100;
 }
 
 .spin-border-wrap {
     position: absolute;
-    top: 154px;
-    left: 154px;
+    top: 153px;
+    left: 153px;
     width: 44px;
     height: 44px;
     background: linear-gradient(0deg, #FFC24F 8.58%, #FF3183 32.32%, #8559F3 60.82%, #657BEA 66.73%, #34B0DC 77.01%, #15D1D3 84.73%, #09DDD0 88.95%);
